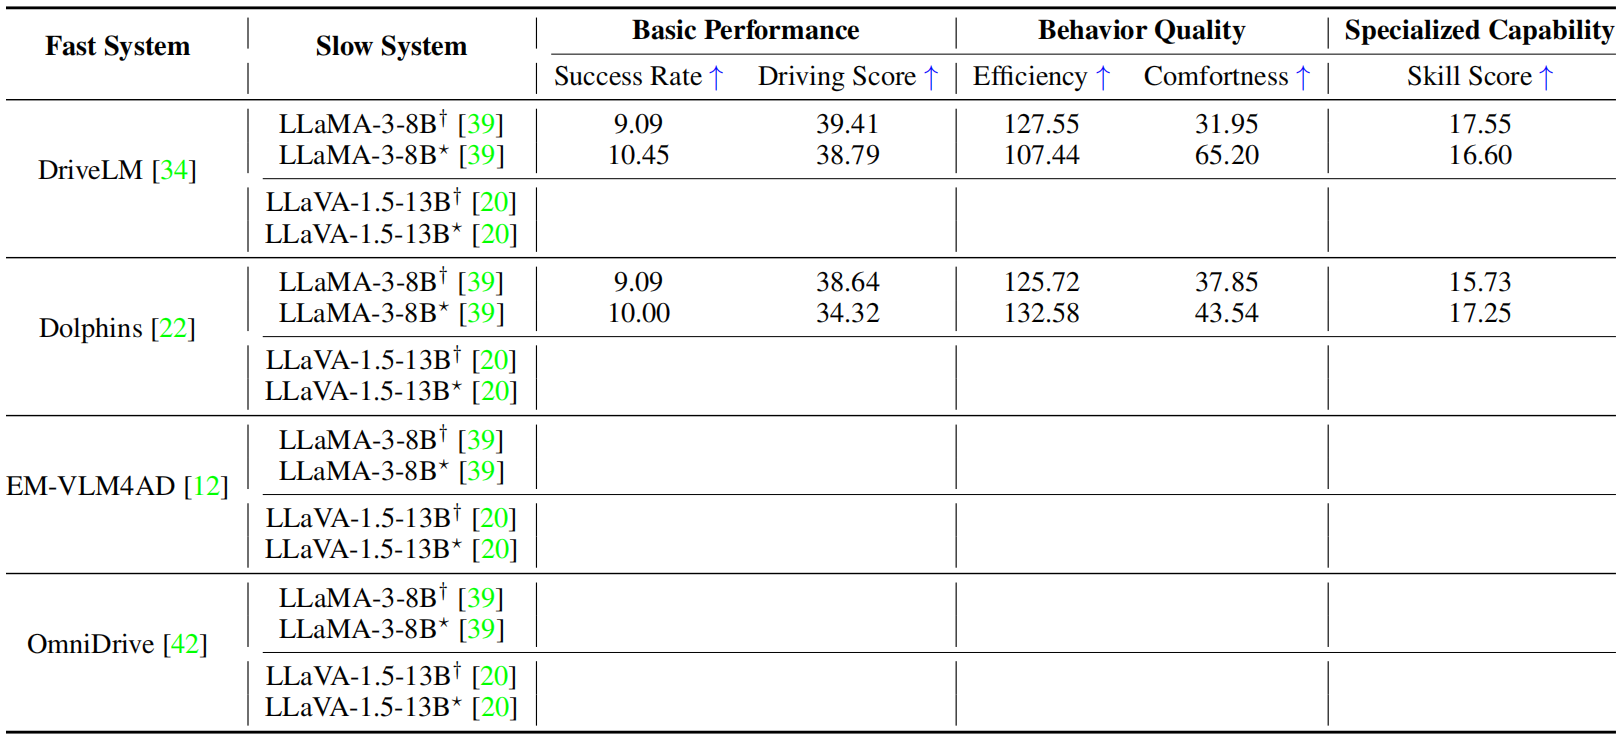
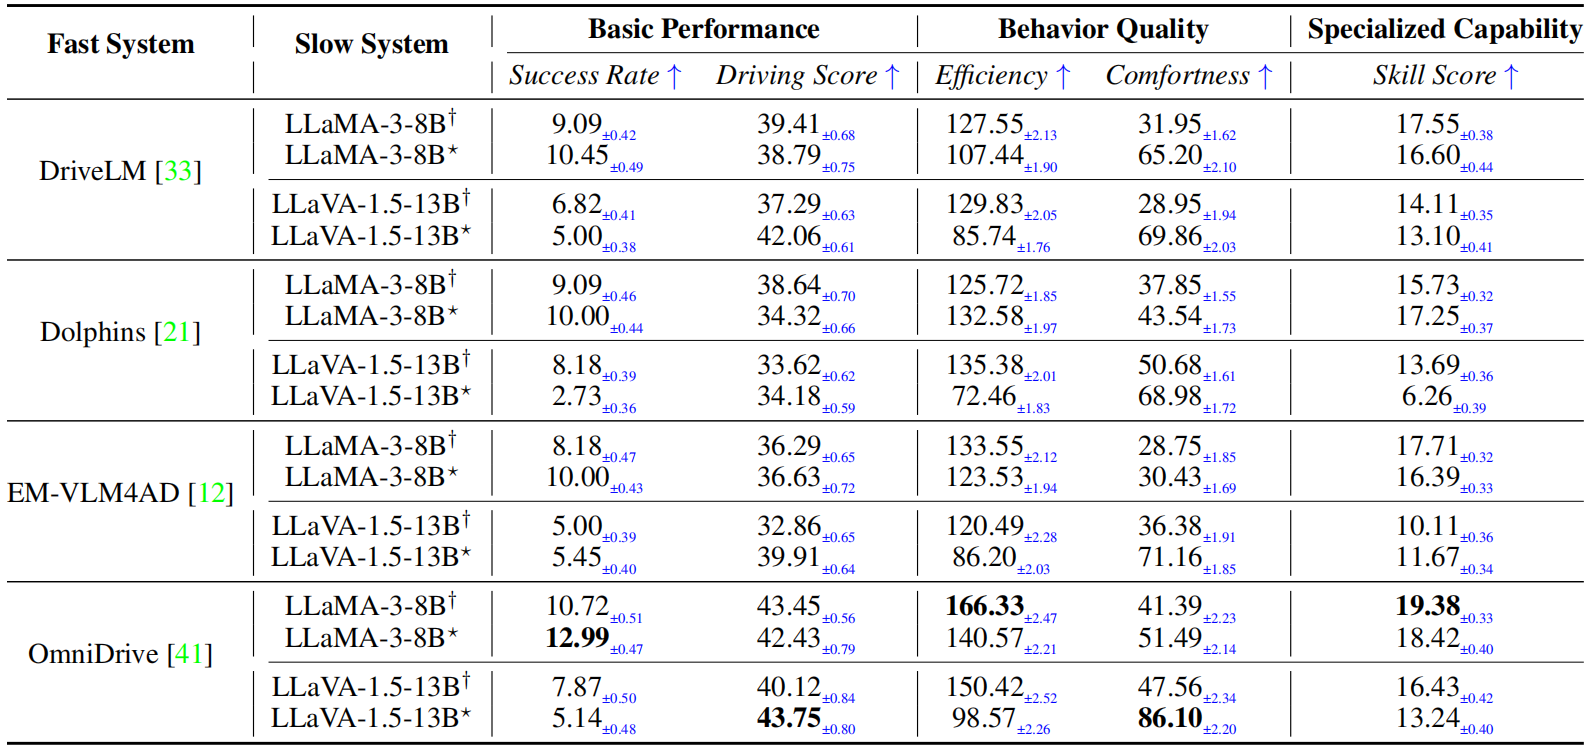
main

diff --git a/index.html b/index.html
@@ -264,7 +264,8 @@
           <p style="font-size: large;">
             Main experimental results on <b><i>Bench2ADVLM</i></b>. <sup>&dagger;</sup> and <sup>&star;</sup> indicate
             the use of Continuous Numerical Generation and Discrete Classification Selection parsing modes,
-            respectively.
+            respectively. Blue subscripts denote the standard deviation (<span style="color: blue;">±std</span>
+            ) over multiple runs.
           </p><br>
           <img src="static/images/main.png" alt="main" style="margin: 0 auto; display: block;">
           <h2 class="subtitle has-text-centered">
